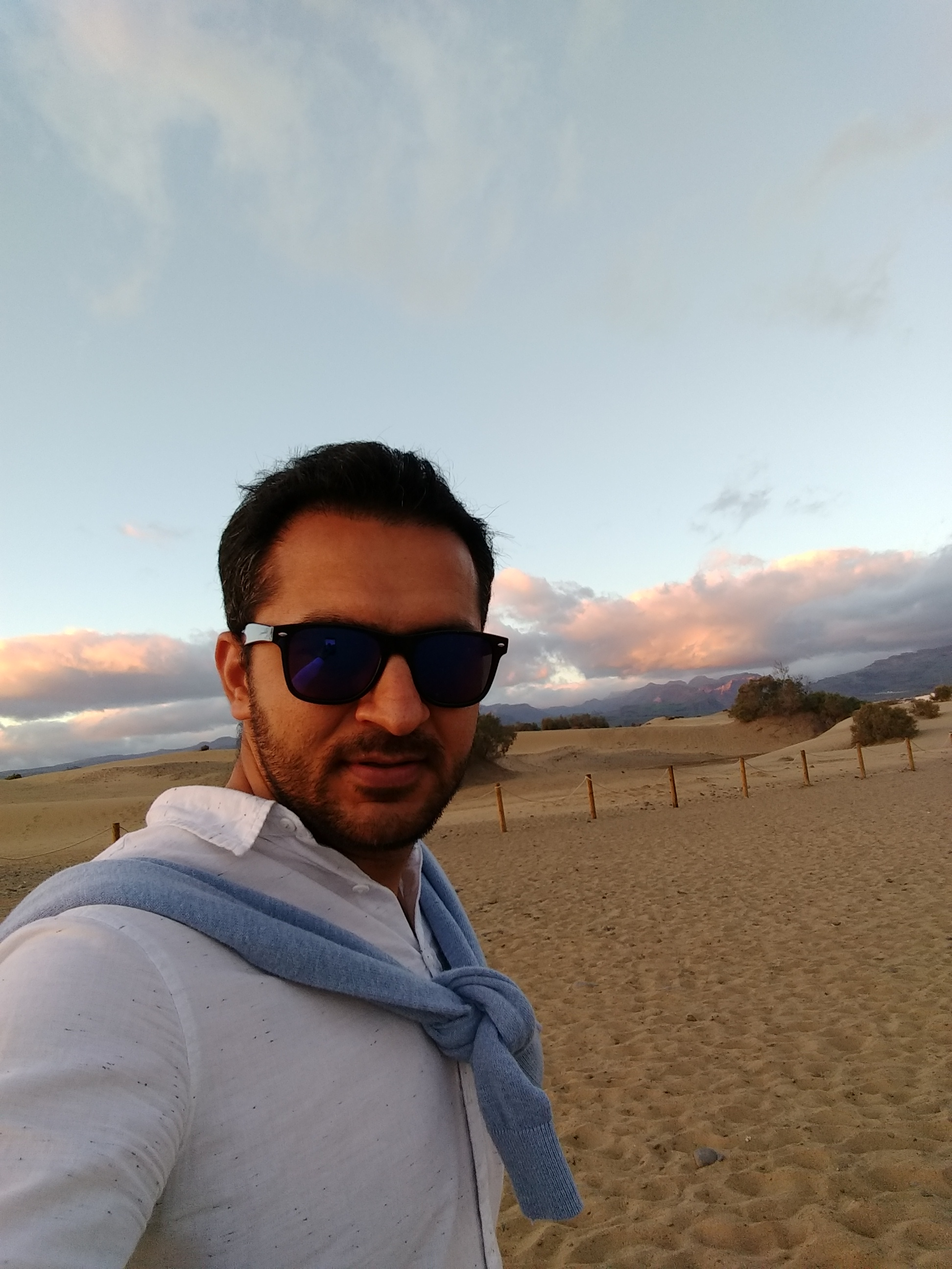
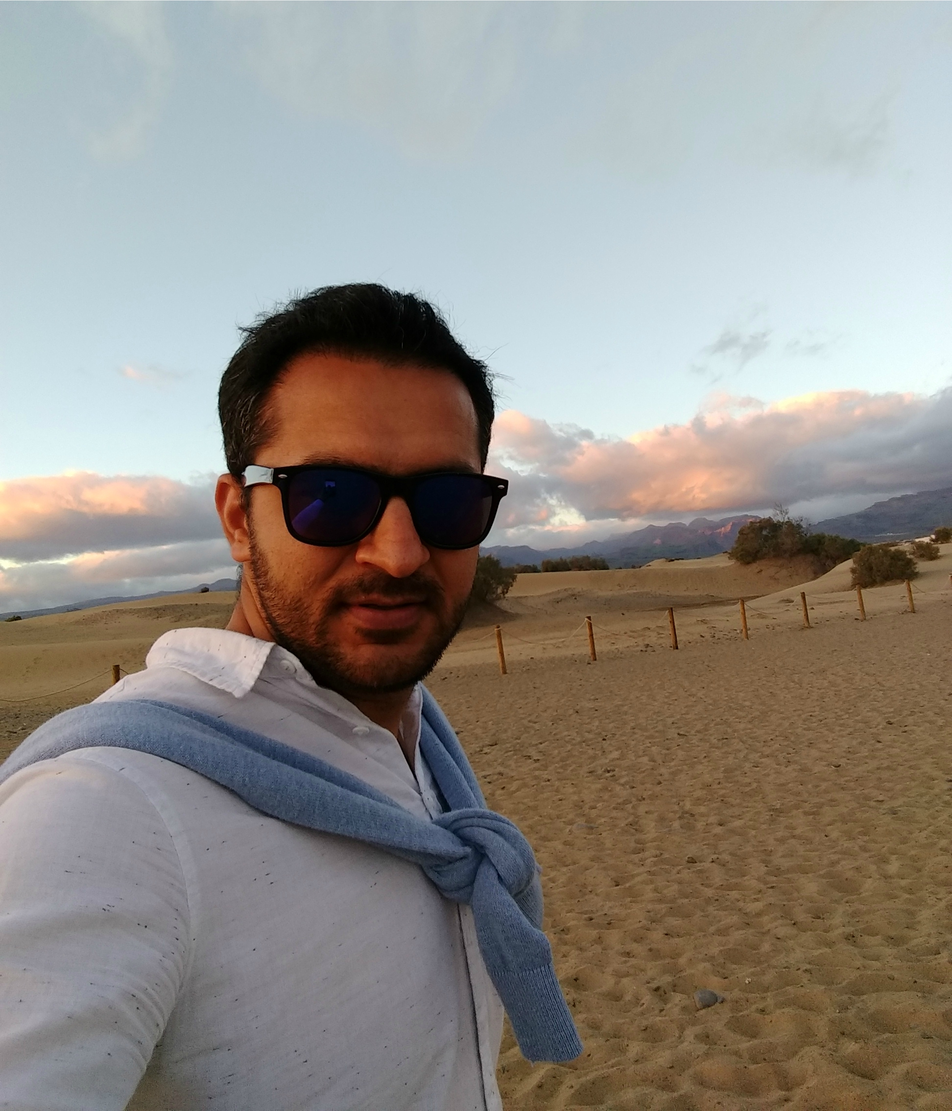
change of profile pic

diff --git a/index.html b/index.html
@@ -30,8 +30,7 @@
 			</div>
 			<h2>A Few of My Famous Quotes</h2>
 			<p>
-				<img src="http://img189.imageshack.us/img189/9177/paperru.jpg
-" width="139" height="150" style="margin: 0 10px 10px 0;float:left;" />
+				<img src="profile.jpg" width="139" height="150" style="margin: 0 10px 10px 0;float:left;" />
 				<em>"That's what she said."</em> - Me<br/>
 				<em>"Would I rather be feared or loved? Easy, both. I want people to be afraid of how much they love me."</em> - Me<br/>
 				<em>"Wikipedia is the best thing ever. Anyone in the world can write anything they want about any subject, so you know you are getting the best possible information."</em> - Me<br/>
@@ -39,7 +38,7 @@
 			</p>
 		</div>
 		<div id="right-column">
-			<div id="main-image"><img src="http://img38.imageshack.us/img38/7065/michaelscotto.jpg
+			<div id="main-image"><img src="profile.jpg
 " width="160" height="188" /></div>
 			<div class="sidebar">
 				<h3>Blurb About Me</h3>
